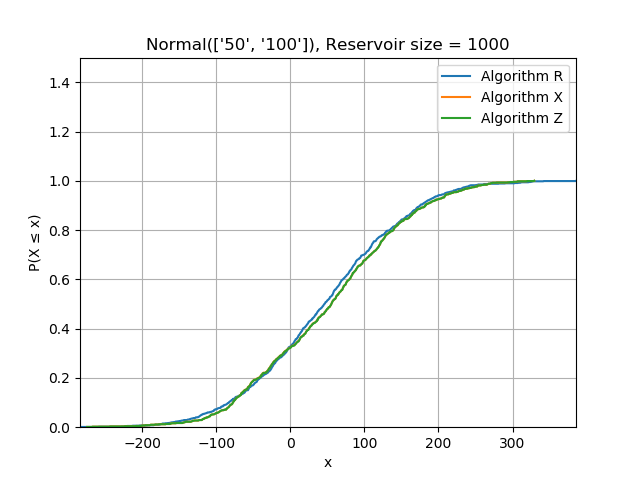
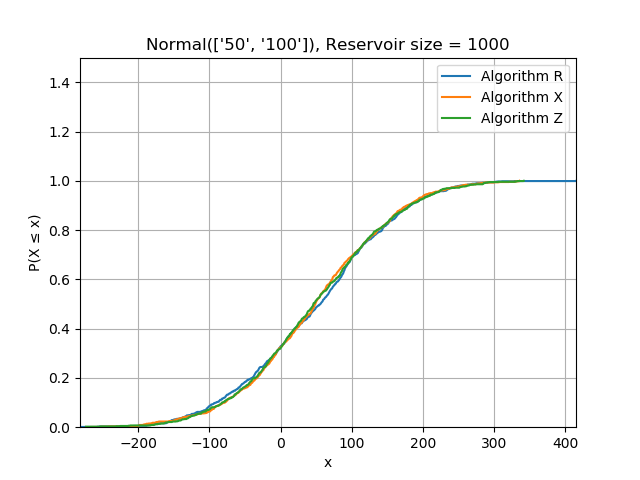
update algo X/Z

diff --git a/_posts/2020-01-17-reservoir-sampling.md b/_posts/2020-01-17-reservoir-sampling.md
@@ -472,16 +472,28 @@ public class AlgorithmX {
     }
 
     private long nextSkip() {
-        long s = -1;
+        long s = 0;
         double u = ThreadLocalRandom.current().nextDouble();
         double numerator = 1;
         double denominator = 1;
         do {
-            ++s;
-            numerator *= (counter + 1 - reservoir.length - s);
+            numerator *= (Math.max(counter, reservoir.length) + 1 - reservoir.length - s);
             denominator *= (double)(counter + 1 - s);
+            ++s;
         } while (numerator/denominator > u);
         return s;
+    }
+
+    public double mean() {
+        double sum = 0;
+        for (double v : reservoir) {
+            sum += v;
+        }
+        return sum / reservoir.length;
+    }
+
+    double[] snapshot() {
+        return reservoir;
     }
 }
 ```
@@ -517,31 +529,65 @@ public class AlgorithmZ {
         if (counter < threshold * reservoir.length) {
             return nextSkipLinearSearch();
         }
-        double c = (double)(counter + 1)/(counter - reservoir.length + 1);
+        long s;
+        double w = Math.exp((-Math.log(ThreadLocalRandom.current().nextDouble())/reservoir.length));
+        double term = counter - reservoir.length + 1;
         while (true) {
             double u = ThreadLocalRandom.current().nextDouble();
-            double x = ThreadLocalRandom.current().nextDouble();
-            double g = counter * (Math.exp(x / reservoir.length) - 1);
-            long s = (long)g;
-            double h = ((double) reservoir.length / counter)
-                    * Math.pow((double) (counter - reservoir.length + 1) / (counter + s - reservoir.length + 1), reservoir.length + 1);
-            if (u <= h / (c * g)) {
-                return s;
+            double x = counter * (w-1.0);
+            s = (long)x;
+            double lhs = Math.exp(Math.log(((u * (Math.pow((counter + 1)/term, 2)) * (term + s)/(counter + x))))/reservoir.length);
+            double rhs = (((counter + x)/(term + s)) * term)/counter;
+            if (lhs < rhs) {
+                w = rhs/lhs;
+                continue;
+            }
+            double y = ((u * (counter) + 1)/term * (counter + s + 1))/(counter + s);
+            double numeratorLimit, denominator;
+            if (s >= reservoir.length) {
+                denominator = counter;
+                numeratorLimit = term + s;
+            } else {
+                denominator = counter - reservoir.length + s;
+                numeratorLimit = counter + 1;
+            }
+            double numerator = counter + s;
+            while ( numerator > numeratorLimit) {
+                y = (y * numerator)/denominator;
+                denominator -= 1;
+                numerator -= 1;
+            }
+            w = Math.exp((-Math.log(ThreadLocalRandom.current().nextDouble())/reservoir.length));
+            if (Math.exp(Math.log(y)/reservoir.length) < (counter + x)/counter) {
+                break;
             }
         }
+        return s;
     }
 
     private long nextSkipLinearSearch() {
-        long s = -1;
+        long s = 0;
         double u = ThreadLocalRandom.current().nextDouble();
         double numerator = 1;
         double denominator = 1;
         do {
-            ++s;
-            numerator *= (counter + 1 - reservoir.length - s);
+            numerator *= (Math.max(counter, reservoir.length) + 1 - reservoir.length - s);
             denominator *= (double)(counter + 1 - s);
+            ++s;
         } while (numerator/denominator > u);
         return s;
+    }
+
+    public double mean() {
+        double sum = 0;
+        for (double v : reservoir) {
+            sum += v;
+        }
+        return sum / reservoir.length;
+    }
+
+    double[] snapshot() {
+        return reservoir;
     }
 }
 ```
